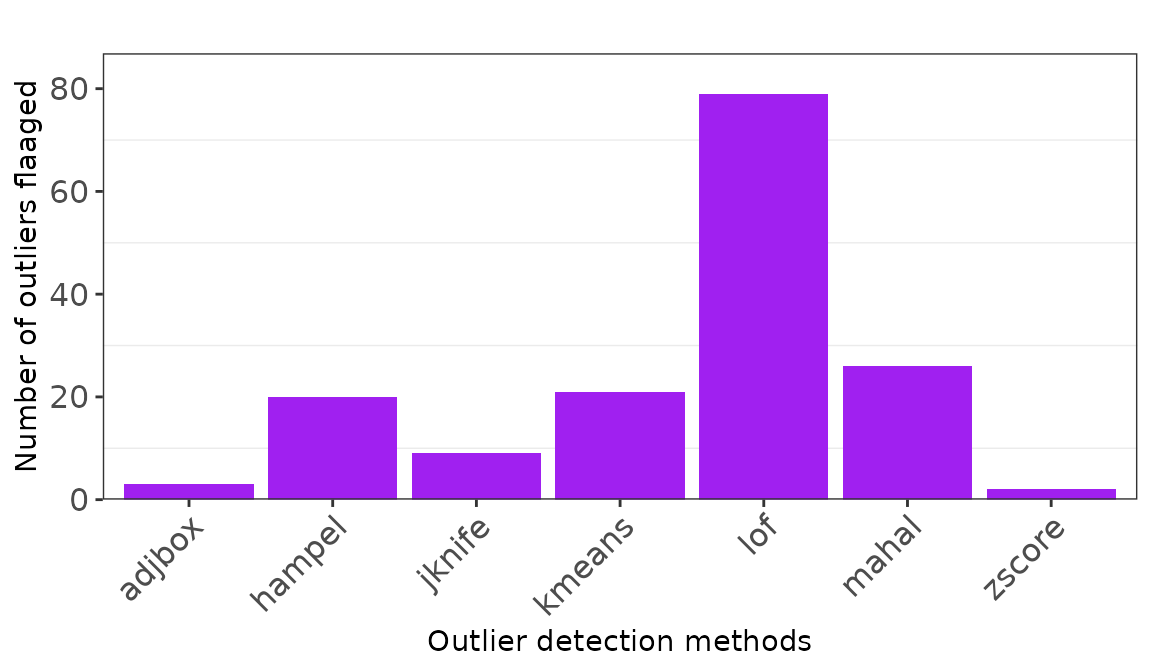
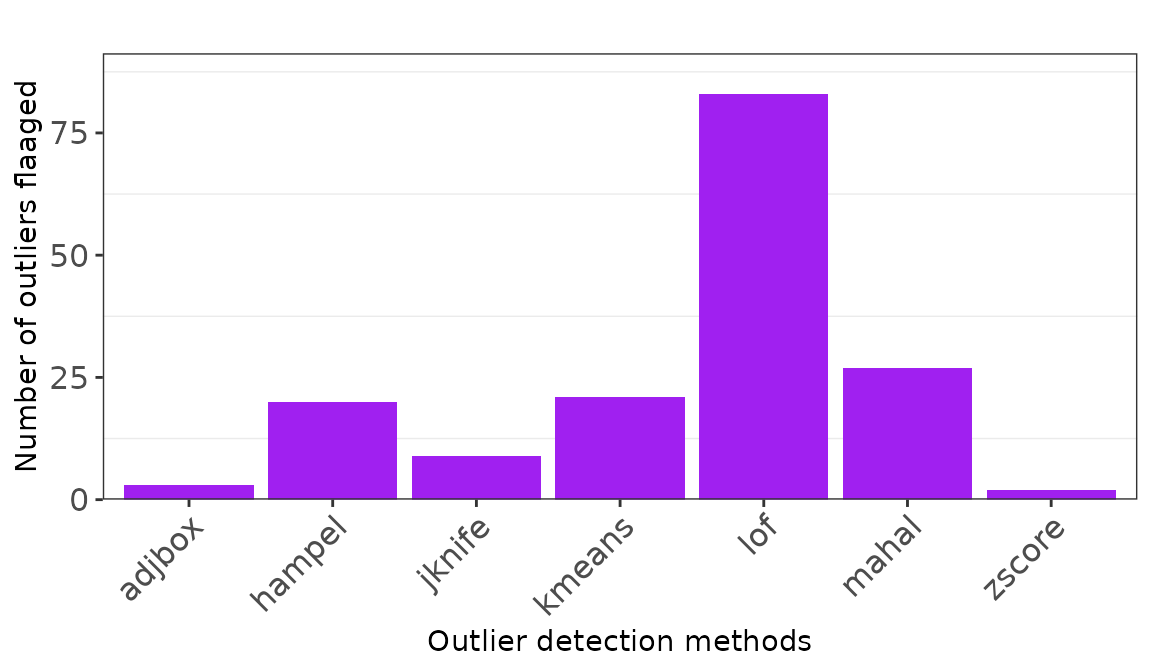
Deploying to gh-pages from @ AnthonyBasooma/specleanr@aab5731c380dca1bb225ac7f46efe04221945c92 🚀

diff --git a/articles/eOutlier.html b/articles/eOutlier.html
@@ -360,25 +360,25 @@ identifying the optimal threshold.</p>
 <span><span class="fu"><a href="https://rspatial.github.io/terra/reference/headtail.html" class="external-link">head</a></span><span class="op">(</span><span class="va">multspecies_clean</span><span class="op">)</span></span>
 <span><span class="co">#&gt;       bio1     bio2     bio3     bio4     bio5     bio6     bio7      bio8</span></span>
 <span><span class="co">#&gt; 1 6.293614 8.755938 31.96181 690.1050 20.90625 -6.48875 27.39500  7.375333</span></span>
-<span><span class="co">#&gt; 2 8.130990 9.155687 33.54192 693.5986 22.50525 -4.79100 27.29625 16.581375</span></span>
+<span><span class="co">#&gt; 2 8.747239 9.561563 33.16130 735.3621 24.23025 -4.60325 28.83350 17.790833</span></span>
 <span><span class="co">#&gt; 3 8.415927 9.549812 33.45236 722.5972 23.70675 -4.84075 28.54750 17.290958</span></span>
 <span><span class="co">#&gt; 4 8.082250 8.630333 32.53905 683.7614 22.23800 -4.28500 26.52300 16.440792</span></span>
-<span><span class="co">#&gt; 5 8.497177 8.913187 33.22129 689.5564 22.77225 -4.05750 26.82975 16.926792</span></span>
-<span><span class="co">#&gt; 6 8.082250 8.630333 32.53905 683.7614 22.23800 -4.28500 26.52300 16.440792</span></span>
+<span><span class="co">#&gt; 5 8.130990 9.155687 33.54192 693.5986 22.50525 -4.79100 27.29625 16.581375</span></span>
+<span><span class="co">#&gt; 6 8.497177 8.913187 33.22129 689.5564 22.77225 -4.05750 26.82975 16.926792</span></span>
 <span><span class="co">#&gt;          bio9    bio10       bio11 bio12 bio13 bio14    bio15 bio16 bio17 bio18</span></span>
 <span><span class="co">#&gt; 1 -1.17562509 14.80313 -2.06429172  2118   241   105 21.73814   663   379   530</span></span>
-<span><span class="co">#&gt; 2  0.93133330 16.58138 -0.41912505  1307   174    69 33.66177   499   233   499</span></span>
+<span><span class="co">#&gt; 2 -0.28391668 17.79083 -0.28391668   643    87    28 38.32993   248    96   248</span></span>
 <span><span class="co">#&gt; 3 -0.46312499 17.29096 -0.46312499   748   100    36 34.12024   277   119   277</span></span>
 <span><span class="co">#&gt; 4 -0.30200002 16.44079 -0.30200002  1229   163    67 33.78827   468   213   468</span></span>
-<span><span class="co">#&gt; 5  0.01145836 16.92679  0.01145836  1173   150    64 31.66039   435   206   435</span></span>
-<span><span class="co">#&gt; 6 -0.30200002 16.44079 -0.30200002  1229   163    67 33.78827   468   213   468</span></span>
+<span><span class="co">#&gt; 5  0.93133330 16.58138 -0.41912505  1307   174    69 33.66177   499   233   499</span></span>
+<span><span class="co">#&gt; 6  0.01145836 16.92679  0.01145836  1173   150    64 31.66039   435   206   435</span></span>
 <span><span class="co">#&gt;   bio19        x        y      species</span></span>
 <span><span class="co">#&gt; 1   412 13.91667 46.25000 Salmo trutta</span></span>
-<span><span class="co">#&gt; 2   234 13.08333 47.75000 Salmo trutta</span></span>
+<span><span class="co">#&gt; 2    96 15.58333 48.25000 Salmo trutta</span></span>
 <span><span class="co">#&gt; 3   119 15.58333 48.08333 Salmo trutta</span></span>
 <span><span class="co">#&gt; 4   213 12.08333 47.75000 Salmo trutta</span></span>
-<span><span class="co">#&gt; 5   206 11.91667 47.91667 Salmo trutta</span></span>
-<span><span class="co">#&gt; 6   213 12.08333 47.75000 Salmo trutta</span></span>
+<span><span class="co">#&gt; 5   234 13.08333 47.75000 Salmo trutta</span></span>
+<span><span class="co">#&gt; 6   206 11.91667 47.91667 Salmo trutta</span></span>
 <span></span>
 <span><span class="va">ttclean</span><span class="op">&lt;-</span> <span class="fu"><a href="../reference/clean_data_extract.html">clean_data_extract</a></span><span class="op">(</span>refdata <span class="op">=</span> <span class="va">ttrefdata</span>, outliers <span class="op">=</span> <span class="va">ttoutlier</span>, loess <span class="op">=</span> <span class="cn">TRUE</span><span class="op">)</span></span>
 <span><span class="fu"><a href="https://rdrr.io/r/base/dim.html" class="external-link">dim</a></span><span class="op">(</span><span class="va">ttclean</span><span class="op">)</span></span>

diff --git a/articles/Plants.html b/articles/Plants.html
@@ -315,20 +315,20 @@ data. For more information, check (B….2024).</p>
 <span></span>
 <span></span>
 <span><span class="va">cleandf1</span> <span class="op">&lt;-</span> <span class="fu"><a href="../reference/clean_data_extract.html">clean_data_extract</a></span><span class="op">(</span>refdata <span class="op">=</span> <span class="va">p1cleaned</span>, outliers <span class="op">=</span> <span class="va">out1df</span>, </span>
-<span>                         mode <span class="op">=</span> <span class="st">"best"</span>, threshold <span class="op">=</span> <span class="fl">0.6</span>, warn <span class="op">=</span> <span class="cn">FALSE</span>, verbose <span class="op">=</span> <span class="cn">TRUE</span>, pabs <span class="op">=</span> <span class="fl">0.1</span><span class="op">)</span></span>
+<span>                         mode <span class="op">=</span> <span class="st">"best"</span>, threshold <span class="op">=</span> <span class="fl">0.4</span>, warn <span class="op">=</span> <span class="cn">FALSE</span>, verbose <span class="op">=</span> <span class="cn">TRUE</span>, pabs <span class="op">=</span> <span class="fl">0.1</span><span class="op">)</span></span>
 <span><span class="co">#&gt; Criteria: Best method selected with majority votes of 4.</span></span></code></pre></div>
 <ol start="5" style="list-style-type: decimal">
 <li><strong>Model comparison</strong></li>
 </ol>
 <p>We vary the different thresholds, which determine the number of
-outlier detections used to indicate that a record is an outlier. For
+outlier detection used to indicate that a record is an outlier. For
 example, a record flagged as an outlier at a threshold of 1 means that
 all the methods ensembled identified the record as an outlier.
-Therefore, based on that principle, we vary the threshold from 0.2 to
-0.7 and predict and develop models at each step. Then, we evaluate the
-model performance using threshold-dependent and independent evaluation
-metrics such as TSS, accuracy, Kappa, Sensitivity, and Area Under the
-Curve (AUC).</p>
+Therefore, based on that principle, we vary the threshold from 0.8 and
+predict and develop models at each step. Then, we evaluate the model
+performance using threshold-dependent and independent evaluation metrics
+such as TSS, accuracy, Kappa, Sensitivity, and Area Under the Curve
+(AUC).</p>
 <div class="sourceCode" id="cb12"><pre class="downlit sourceCode r">
 <code class="sourceCode R"><span></span>
 <span><span class="va">multsppmodel</span> <span class="op">&lt;-</span> <span class="fu"><a href="../reference/modelcomparison.html">modelcomparison</a></span><span class="op">(</span>refdata <span class="op">=</span> <span class="va">plantcleaned</span>, outliers <span class="op">=</span> <span class="va">outliersdata</span>, raster <span class="op">=</span> <span class="va">worldclim</span>,</span>
@@ -360,7 +360,7 @@ plot.</li>
 <div class="sourceCode" id="cb15"><pre class="downlit sourceCode r">
 <code class="sourceCode R"><span><span class="fu"><a href="../reference/ggperform.html">ggperform</a></span><span class="op">(</span>modelout <span class="op">=</span> <span class="va">multsppmodel</span>, eval <span class="op">=</span> <span class="fu"><a href="https://rdrr.io/r/base/c.html" class="external-link">c</a></span><span class="op">(</span><span class="st">"auc"</span>, <span class="st">"Accuracy"</span>, <span class="st">"Sensitivity"</span>,</span>
 <span>                                                         <span class="st">"Kappa"</span>, <span class="st">"Specificity"</span>, <span class="st">"TSS"</span><span class="op">)</span><span class="op">)</span></span></code></pre></div>
-<p><img src="Plants_files/figure-html/visualisation2-1.png" width="864" style="display: block; margin: auto;"></p>
+<p><img src="Plants_files/figure-html/visualisation2-1.png" width="960" style="display: block; margin: auto;"></p>
 <div class="section level3">
 <h3 id="references">References<a class="anchor" aria-label="anchor" href="#references"></a>
 </h3>

diff --git a/index.html b/index.html
@@ -55,17 +55,6 @@
   <main id="main" class="col-md-9"><div class="section level1">
 <div class="page-header"><h1 id="specleanr-package-for-outlier-detection">specleanr package for outlier detection<a class="anchor" aria-label="anchor" href="#specleanr-package-for-outlier-detection"></a>
 </h1></div>
-<!-- <style> -->
-<!-- body { -->
-<!--     text-align: justify; -->
-<!--     font-family: Calibri; -->
-<!--     font-size: 17px; -->
-<!-- } -->
-<!-- .p { -->
-<!--  font-size:17px; -->
-<!--  font-family: Consolas; -->
-<!-- } -->
-<!-- </style> -->
 <!-- README.md is generated from README.Rmd. Please edit that file -->
 <!-- badges: start -->
 
